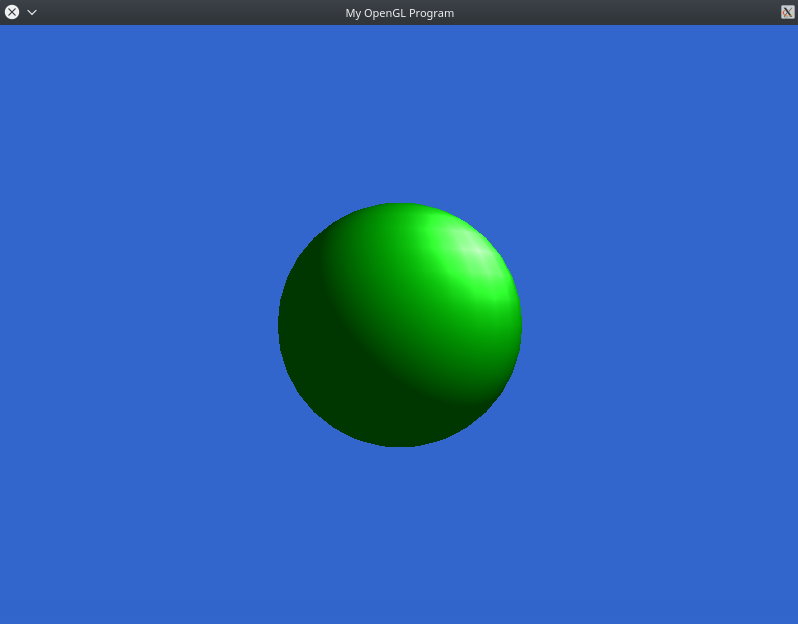
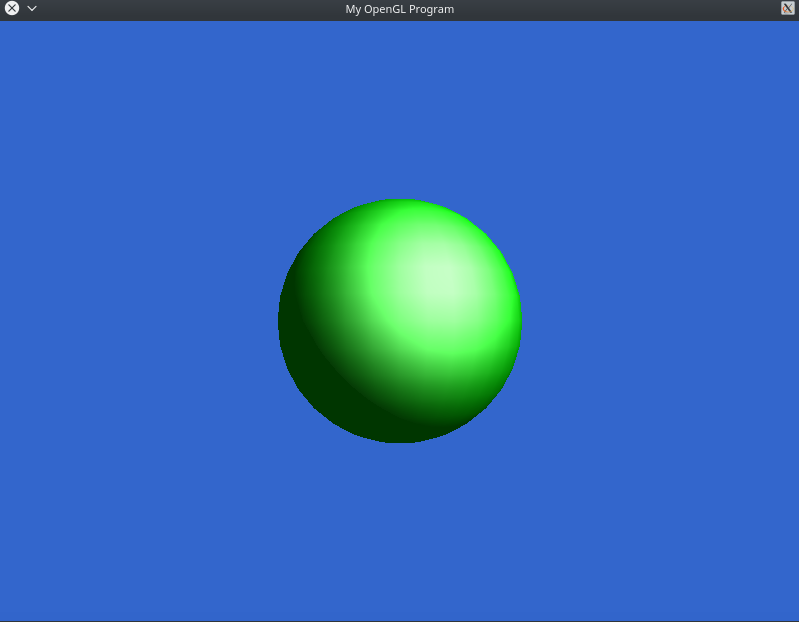
hw0.5

diff --git a/hw0.5/src/ModelLoadNew.cpp b/hw0.5/src/ModelLoadNew.cpp
@@ -29,83 +29,172 @@ using namespace std;
 bool saveOutput = false;
 float timePast = 0;
 
+
+
+// // Shader sources
+// const GLchar* vertexSource =
+// "#version 150 core\n"
+// "in vec3 position;"
+// //"in vec3 inColor;"
+// "const vec3 inColor = vec3(0.f,0.7f,0.f);"
+// "const vec3 inlightDir = normalize(vec3(1,0,0));"  //we should really pass this in
+// "in vec3 inNormal;"
+// "uniform int shading_mode;"
+// "flat out int shadingMode;"
+// "out vec3 refColor;"
+// "out vec3 Color;"
+// "out vec3 normal;"
+// "out vec3 pos;"
+// "out vec3 eyePos;"
+// "out vec3 lightDir;"
+// "uniform mat4 model;"
+// "uniform mat4 view;"
+// "uniform mat4 proj;"
+// "void main() {"
+// "   Color = inColor;"
+// "   gl_Position = proj * view * model * vec4(position,1.0);"
+// "   vec4 pos4 = (view * model * vec4(position,1.0));"
+// "   pos = pos4.xyz/pos4.w;"  //Convert vec4 pos to vec3 ... typically pos4.w and you don't need the divide
+// "   vec4 norm4 = transpose(inverse(view*model)) * vec4(inNormal,0.0);"  //OR don't use the inverse-Transpose ... but you'll have to normalize the normal
+// "   normal = norm4.xyz;"  //Convert the vec4 to a vec3 ... we don't need to normalize if the above line is correct
+// "   lightDir = (view * vec4(inlightDir,0)).xyz;"  //Transform light into to view space
+// "   if (shadingMode == 3 || shadingMode == 4) {"
+// "       vec3 diffuseC = Color*max(dot(lightDir,normal),0.0);"
+// "       vec3 reflectDir = reflect(-lightDir,normal);" 
+// "       vec3 viewDir = normalize(-pos);"  //We know the eye is at 0,0
+// "       float spec;"
+// "       if (shadingMode == 4) {"
+// "           vec3 h = normalize(lightDir - viewDir);"
+// "           spec = dot(h, normal);"
+// "       } else {"
+// "           vec3 r= reflect(lightDir, normal);"
+// "           spec = dot(r, viewDir);"
+// "       }"
+// "       spec = max(spec,0.0);"
+// "       if (dot(lightDir,normal) <= 0.0) spec = 0;"
+// "       vec3 specC = vec3(.8,.8,.8)*pow(spec,4);"
+// "       refColor = diffuseC+specC;"
+// "   }"
+// "}";
+  
+// const GLchar* fragmentSource =
+// "#version 150 core\n"
+// "in vec3 Color;"
+// "in vec3 normal;"
+// "in vec3 pos;"
+// "in vec3 eyePos;"
+// "in vec3 lightDir;"
+// "in vec3 refColor;"
+// "flat in int shadingMode;"
+// "out vec4 outColor;"
+// "const float ambient = .3;"
+// "void main() {"
+// "   vec3 ambC = Color*ambient;"
+// "   if (shadingMode == 3 || shadingMode == 4) {"
+// "   "
+// "       outColor = vec4(ambC+refColor, 1.0);"
+// "       return;"
+// "   }"
+// "   vec3 diffuseC = Color*max(dot(lightDir,normal),0.0);"
+// "   vec3 reflectDir = reflect(-lightDir,normal);" 
+// "   vec3 viewDir = normalize(-pos);"  //We know the eye is at 0,0
+// "   float spec;"
+// "   if (shadingMode == 2) {"
+// "       vec3 h = normalize(lightDir - viewDir);"
+// "       spec = dot(h, normal);"
+// "   } else {"
+// "       vec3 r= reflect(lightDir, normal);"
+// "       spec = dot(r, viewDir);"
+// "   }"
+// "   spec = max(spec,0.0);"
+// "   if (dot(lightDir,normal) <= 0.0) spec = 0;"
+// "   vec3 specC = vec3(.8,.8,.8)*pow(spec,4);"
+// "   outColor = vec4(ambC+diffuseC+specC, 1.0);"
+// "}";
+
+
 // Shader sources
 const GLchar* vertexSource =
-        "#version 150 core\n"
-                "in vec3 position;"
-//  "in vec3 inColor;"
-                "const vec3 inColor = vec3(0.f,0.7f,0.f);"
-                "in vec3 inNormal;"
-                "uniform int shading_mode;"
-                "flat out int shadingMode;"
-                "out vec3 refColor;"
-                "out vec3 Color;"
-                "out vec3 normal;"
-                "out vec3 pos;"
-                "uniform mat4 model;"
-                "uniform mat4 view;"
-                "uniform mat4 proj;"
-                "const vec3 lightPos = vec3(1,1,1);"
-                "void main() {"
-                "   Color = inColor;"
-                "   gl_Position = proj * view * model * vec4(position,1.0);"
-                "   pos = (model * vec4(position,1.0)).xyz;"
-                "   vec4 norm4 = transpose(inverse(model)) * vec4(inNormal,0.0);"  //Just model, than noramlize normal
-                "   normal = normalize(norm4.xyz);"
-                "   shadingMode = shading_mode;"
-                "   if (shadingMode == 3 || shadingMode == 4) {"
-                "       vec3 lightDir = normalize(lightPos-pos);"
-                "       vec3 diffuseC = Color*max(dot(lightDir, normal),0.0);"
-                "       vec3 viewDir = normalize(-pos);" //We know the eye is at (0,0)!
-                "       float spec;"
-                "       if (shadingMode == 4) {"
-                "           vec3 h = normalize(lightDir - viewDir);"
-                "           spec = dot(h, normal);"
-                "       } else {"
-                "           vec3 r= reflect(lightDir, normal);"
-                "           spec = dot(r, viewDir);"
-                "       }"
-                "       spec = max(spec, 0.0);"
-                "       if (dot(lightDir,normal) <= 0.0)spec = 0;"
-                "       vec3 specC = vec3(.8, .8, .8)*pow(spec,32);"
-                "       refColor = diffuseC+specC;"
-                "   }"
-                "}";
-
+"#version 150 core\n"
+"in vec3 position;"
+//"in vec3 inColor;"
+"const vec3 inColor = vec3(0.f,0.7f,0.f);"
+"const vec3 inlightDir = normalize(vec3(1,1,1));"  //we should really pass this in
+"in vec3 inNormal;"
+"out vec3 Color;"
+"out vec3 normal;"
+"out vec3 pos;"
+"out vec3 eyePos;"
+"out vec3 lightDir;"
+"uniform mat4 model;"
+"uniform mat4 view;"
+"uniform mat4 proj;"
+"uniform int shading_mode;"
+"flat out int shadingMode;"
+"out vec3 refColor;"
+"void main() {"
+"   Color = inColor;"
+"   gl_Position = proj * view * model * vec4(position,1.0);"
+"   vec4 pos4 = (view * model * vec4(position,1.0));"
+"   pos = pos4.xyz/pos4.w;"  //Convert vec4 pos to vec3 ... typically pos4.w and you don't need the divide
+"   vec4 norm4 = transpose(inverse(view*model)) * vec4(inNormal,0.0);"  //OR don't use the inverse-Transpose ... but you'll have to normalize the normal
+"   normal = norm4.xyz;"  //Convert the vec4 to a vec3 ... we don't need to normalize if the above line is correct
+"   lightDir = (view * vec4(inlightDir,0)).xyz;"  //Transform light into to view space
+"   shadingMode = shading_mode;"
+"   if (shading_mode == 3 || shading_mode == 4) {"
+"       vec3 diffuseC = Color*max(dot(lightDir,normal),0.0);"
+"       vec3 viewDir = normalize(-pos);"  //We know the eye is at 0,0
+"       float spec;"
+"       if (shadingMode == 4) {"
+"           vec3 h = normalize(lightDir + viewDir);"
+"           spec = dot(h, normal);"
+"       } else {"
+"           vec3 r= reflect(-lightDir, normal);"
+"           spec = dot(r, viewDir);"
+"       }"
+"       spec = max(spec,0.0);"
+"       if (dot(lightDir,normal) <= 0.0) spec = 0;"
+"       vec3 specC = vec3(.8,.8,.8)*pow(spec,4);"
+"       refColor = diffuseC+specC;"
+"   }"
+"}";
+  
 const GLchar* fragmentSource =
-        "#version 150 core\n"
-                "in vec3 Color;"
-                "in vec3 normal;"
-                "in vec3 pos;"
-                "in vec3 refColor;"
-                "flat in int shadingMode;"
-                "out vec4 outColor;"
-                "const vec3 lightPos = vec3(1,1,1);"
-                "const float ambient = .3;"
-                "void main() {"
-                "   vec3 ambC = Color*ambient;"
-                "   if (shadingMode == 3 || shadingMode == 4) {"
-                "   "
-                "       outColor = vec4(ambC+refColor, 1.0);"
-                "       return;"
-                "   }"
-                "   vec3 lightDir = normalize(lightPos-pos);"
-                "   vec3 diffuseC = Color*max(dot(lightDir, normal),0.0);"
-                "   vec3 viewDir = normalize(-pos);" //We know the eye is at (0,0)!
-                "   float spec;"
-                "   if (shadingMode == 2) {"
-                "       vec3 h = normalize(lightDir - viewDir);"
-                "       spec = dot(h, normal);"
-                "   } else {"
-                "       vec3 r= reflect(lightDir, normal);"
-                "       spec = dot(r, viewDir);"
-                "   }"
-                "   spec = max(spec, 0.0);"
-                "   if (dot(lightDir,normal) <= 0.0)spec = 0;"
-                "       vec3 specC = vec3(.8, .8, .8)*pow(spec,32);"
-                "   outColor = vec4(diffuseC+ambC+specC, 1.0);"
-                "}";
-
+"#version 150 core\n"
+"in vec3 Color;"
+"in vec3 normal;"
+"in vec3 pos;"
+"in vec3 eyePos;"
+"in vec3 lightDir;"
+"out vec4 outColor;"
+"const float ambient = .3;"
+"flat in int shadingMode;"
+"in vec3 refColor;"
+"void main() {"
+"   vec3 diffuseC = Color*max(dot(lightDir,normal),0.0);"
+"   vec3 ambC = Color*ambient;" 
+"   if (shadingMode == 3 || shadingMode == 4) {"
+"   "
+"       outColor = vec4(ambC+refColor, 1.0);"
+"       return;"
+"   }"
+// "   vec3 reflectDir = reflect(-lightDir,normal);" 
+"   vec3 viewDir = normalize(-pos);"  //We know the eye is at 0,0
+"   float spec;"
+"   if (shadingMode == 2) {"
+"       vec3 h = normalize(lightDir + viewDir);"
+"       spec = dot(h, normal);"
+"   } else {"
+"       vec3 r= reflect(-lightDir, normal);"
+"       spec = dot(r, viewDir);"
+"   }"
+"   spec = max(spec,0.0);"
+// "   float spec = max(dot(reflectDir,viewDir),0.0);"
+"   if (dot(lightDir,normal) <= 0.0) spec = 0;"
+"   vec3 specC = vec3(.8,.8,.8)*pow(spec,4);"
+"   outColor = vec4(ambC+diffuseC+specC, 1.0);"
+"}";
+  
 GLint shading_mode = 1;
 
 bool fullscreen = false;

diff --git a/hw0.5/src/ModelLoad.cpp b/hw0.5/src/ModelLoad.cpp
@@ -29,21 +29,26 @@ float timePast = 0;
 const GLchar* vertexSource =
   "#version 150 core\n"
   "in vec3 position;"
-//  "in vec3 inColor;"
-   "const vec3 inColor = vec3(0.f,0.7f,0.f);"
+  "in vec3 inColor;"
+  // "const vec3 inColor = vec3(0.f,0.7f,0.f);"
+  "const vec3 inlightDir = normalize(vec3(1,0,0));"  //we should really pass this in
   "in vec3 inNormal;"
   "out vec3 Color;"
   "out vec3 normal;"
   "out vec3 pos;"
+  "out vec3 eyePos;"
+  "out vec3 lightDir;"
   "uniform mat4 model;"
   "uniform mat4 view;"
   "uniform mat4 proj;"
   "void main() {"
   "   Color = inColor;"
   "   gl_Position = proj * view * model * vec4(position,1.0);"
-  "   pos = (model * vec4(position,1.0)).xyz;"
-  "   vec4 norm4 = transpose(inverse(model)) * vec4(inNormal,0.0);"  //Just model, than noramlize normal
-  "   normal = normalize(norm4.xyz);"
+  "   vec4 pos4 = (view * model * vec4(position,1.0));"
+  "   pos = pos4.xyz/pos4.w;"  //Convert vec4 pos to vec3 ... typically pos4.w and you don't need the divide
+  "   vec4 norm4 = transpose(inverse(view*model)) * vec4(inNormal,0.0);"  //OR don't use the inverse-Transpose ... but you'll have to normalize the normal
+  "   normal = norm4.xyz;"  //Convert the vec4 to a vec3 ... we don't need to normalize if the above line is correct
+  "   lightDir = (view * vec4(inlightDir,0)).xyz;"  //Transform light into to view space
   "}";
     
 const GLchar* fragmentSource =
@@ -51,18 +56,19 @@ const GLchar* fragmentSource =
   "in vec3 Color;"
   "in vec3 normal;"
   "in vec3 pos;"
+  "in vec3 eyePos;"
+  "in vec3 lightDir;"
   "out vec4 outColor;"
-  "const vec3 lightDir = normalize(vec3(1,1,1));"
   "const float ambient = .3;"
   "void main() {"
   "   vec3 diffuseC = Color*max(dot(lightDir,normal),0.0);"
-  "   vec3 ambC = Color*ambient;"
-  "   vec3 reflectDir = reflect(lightDir,normal);"
-  "   vec3 viewDir = normalize(-pos);" //We know the eye is at (0,0)!
+  "   vec3 ambC = Color*ambient;" 
+  "   vec3 reflectDir = reflect(-lightDir,normal);" 
+  "   vec3 viewDir = normalize(-pos);"  //We know the eye is at 0,0
   "   float spec = max(dot(reflectDir,viewDir),0.0);"
-  "   if (dot(lightDir,normal) <= 0.0)spec = 0;"
-  "   vec3 specC = vec3(1.0,1.0,1.0)*pow(spec,4);"
-  "   outColor = vec4(diffuseC+ambC+specC, 1.0);"
+  "   if (dot(lightDir,normal) <= 0.0) spec = 0;"
+  "   vec3 specC = vec3(.8,.8,.8)*pow(spec,4);"
+  "   outColor = vec4(ambC+diffuseC+specC, 1.0);"
   "}";
     
 bool fullscreen = false;
@@ -180,9 +186,9 @@ int main(int argc, char *argv[]){
 	  //Binds to VBO current GL_ARRAY_BUFFER 
 	glEnableVertexAttribArray(posAttrib);
 	
-//	GLint colAttrib = glGetAttribLocation(shaderProgram, "inColor");
-//	glVertexAttribPointer(colAttrib, 3, GL_FLOAT, GL_FALSE, 8*sizeof(float), (void*)(3*sizeof(float)));
-//	glEnableVertexAttribArray(colAttrib);
+	GLint colAttrib = glGetAttribLocation(shaderProgram, "inColor");
+	glVertexAttribPointer(colAttrib, 3, GL_FLOAT, GL_FALSE, 8*sizeof(float), (void*)(3*sizeof(float)));
+	glEnableVertexAttribArray(colAttrib);
 	
 	GLint normAttrib = glGetAttribLocation(shaderProgram, "inNormal");
 	glVertexAttribPointer(normAttrib, 3, GL_FLOAT, GL_FALSE, 8*sizeof(float), (void*)(5*sizeof(float)));
